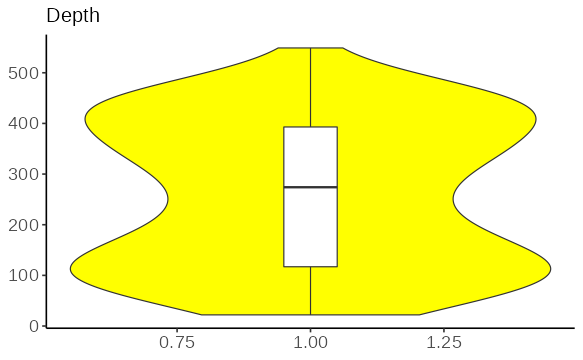
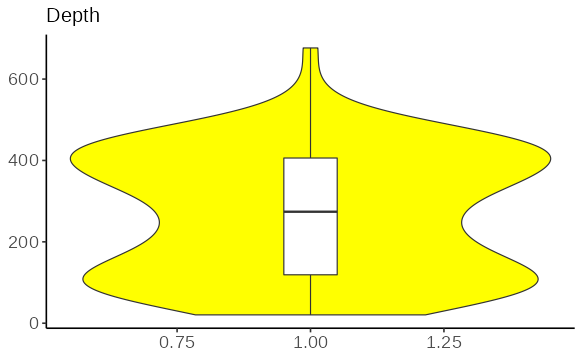
Built site for voluModel: 0.1.6@61150af

diff --git a/articles/c_DataSampling.html b/articles/c_DataSampling.html
@@ -101,7 +101,7 @@
                         <h4 data-toc-skip class="author">Hannah L. Owens</h4>
                         <h4 data-toc-skip class="author">Carsten Rahbek</h4>
             
-            <h4 data-toc-skip class="date">2022-06-24</h4>
+            <h4 data-toc-skip class="date">2022-06-27</h4>
       
       <small class="dont-index">Source: <a href="https://github.com/hannahlowens/voluModel/blob/HEAD/vignettes/c_DataSampling.Rmd" class="external-link"><code>vignettes/c_DataSampling.Rmd</code></a></small>
       <div class="hidden name"><code>c_DataSampling.Rmd</code></div>
@@ -121,7 +121,8 @@
 <span class="kw"><a href="https://rdrr.io/r/base/library.html" class="external-link">library</a></span><span class="op">(</span><span class="va"><a href="http://rgdal.r-forge.r-project.org" class="external-link">rgdal</a></span>, 
         <span class="fu"><a href="https://rdrr.io/r/base/options.html" class="external-link">options</a></span><span class="op">(</span><span class="st">"rgdal_show_exportToProj4_warnings"</span><span class="op">=</span><span class="st">"none"</span><span class="op">)</span><span class="op">)</span> <span class="co"># For vector stuff. Will eventually be replaced with sf.</span>
 <span class="kw"><a href="https://rdrr.io/r/base/library.html" class="external-link">library</a></span><span class="op">(</span><span class="va"><a href="https://rspatial.org/raster" class="external-link">raster</a></span><span class="op">)</span> <span class="co"># For raster stuff. Will eventually be replaced with terra.</span>
-<span class="kw"><a href="https://rdrr.io/r/base/library.html" class="external-link">library</a></span><span class="op">(</span><span class="va"><a href="https://github.com/ptitle/rangeBuilder" class="external-link">rangeBuilder</a></span><span class="op">)</span> <span class="co"># To compare marineBackground to getDynamicAlphaHull</span></code></pre></div>
+<span class="kw"><a href="https://rdrr.io/r/base/library.html" class="external-link">library</a></span><span class="op">(</span><span class="va"><a href="https://github.com/ptitle/rangeBuilder" class="external-link">rangeBuilder</a></span><span class="op">)</span> <span class="co"># To compare marineBackground to getDynamicAlphaHull</span>
+<span class="kw"><a href="https://rdrr.io/r/base/library.html" class="external-link">library</a></span><span class="op">(</span><span class="va"><a href="https://dplyr.tidyverse.org" class="external-link">dplyr</a></span><span class="op">)</span> <span class="co"># To filter data</span></code></pre></div>
 </div>
 <div class="section level2">
 <h2 id="generating-repeatable-training-regions">Generating Repeatable Training Regions<a class="anchor" aria-label="anchor" href="#generating-repeatable-training-regions"></a>
@@ -129,7 +130,15 @@
 <p>To generate a sample of pseudoabsences and/or background points, it is important to consider the environments the species of interest can access (Barve <em>et al.</em>, 2011). There is ample discussion in the literature on how to best delimit a niche model training region (also variously called M or the background region), and we will not review the issue here. In the absence of specific information on species’ dispersal capabilities, algorithmically generating a repeatable sampling background from a clear set of rules may be suitable approximation, or a jumping-off point for hand-curating training regions in a GIS software of choice.</p>
 <p>We designed <code><a href="../reference/marineBackground.html">marineBackground()</a></code> as a wrapper around , a function provided by the <code>rangeBuilder</code> package (Davis-Rabosky <em>et al.</em>, 2016) which generates background sampling regions by fitting an alpha hull polygon around an occurrence point dataset. Let’s look at how <code><a href="../reference/marineBackground.html">marineBackground()</a></code> (and by extension <code><a href="https://rdrr.io/pkg/rangeBuilder/man/getDynamicAlphaHull.html" class="external-link">getDynamicAlphaHull()</a></code>) fits alpha hull polygons, based on species occurrence data. The occurrence dataset is our <em>Steindachneria argentea</em>, Luminous Hake, data downloaded via R (R Core Team, 2020) from GBIF (Chamberlain <em>et al.</em>, 2021; Chamberlain and Boettiger, 2017) and OBIS (Provoost and Bosch, 2019) via <code>occCite</code> (Owens <em>et al.</em>, 2021).</p>
 <div class="sourceCode" id="cb2"><pre class="downlit sourceCode r">
-<code class="sourceCode R"><span class="co"># Map occurrences</span>
+<code class="sourceCode R"><span class="co"># Get points</span>
+<span class="va">occs</span> <span class="op">&lt;-</span> <span class="fu"><a href="https://rdrr.io/r/utils/read.table.html" class="external-link">read.csv</a></span><span class="op">(</span><span class="fu"><a href="https://rdrr.io/r/base/system.file.html" class="external-link">system.file</a></span><span class="op">(</span><span class="st">"extdata/Steindachneria_argentea.csv"</span>, 
+                             package<span class="op">=</span><span class="st">'voluModel'</span><span class="op">)</span><span class="op">)</span>
+<span class="va">occurrences</span> <span class="op">&lt;-</span> <span class="va">occs</span> <span class="op"><a href="https://magrittr.tidyverse.org/reference/pipe.html" class="external-link">%&gt;%</a></span> 
+  <span class="fu">dplyr</span><span class="fu">::</span><span class="fu"><a href="https://dplyr.tidyverse.org/reference/select.html" class="external-link">select</a></span><span class="op">(</span><span class="va">decimalLongitude</span>, <span class="va">decimalLatitude</span>, <span class="va">depth</span><span class="op">)</span> <span class="op"><a href="https://magrittr.tidyverse.org/reference/pipe.html" class="external-link">%&gt;%</a></span>
+  <span class="fu">dplyr</span><span class="fu">::</span><span class="fu"><a href="https://dplyr.tidyverse.org/reference/distinct.html" class="external-link">distinct</a></span><span class="op">(</span><span class="op">)</span> <span class="op"><a href="https://magrittr.tidyverse.org/reference/pipe.html" class="external-link">%&gt;%</a></span> 
+  <span class="fu">dplyr</span><span class="fu">::</span><span class="fu"><a href="https://dplyr.tidyverse.org/reference/filter.html" class="external-link">filter</a></span><span class="op">(</span><span class="fu">dplyr</span><span class="fu">::</span><span class="fu"><a href="https://dplyr.tidyverse.org/reference/between.html" class="external-link">between</a></span><span class="op">(</span><span class="va">depth</span>, <span class="fl">1</span>, <span class="fl">2000</span><span class="op">)</span><span class="op">)</span>
+
+<span class="co"># Map occurrences</span>
 <span class="va">land</span> <span class="op">&lt;-</span> <span class="fu">rnaturalearth</span><span class="fu">::</span><span class="fu"><a href="https://rdrr.io/pkg/rnaturalearth/man/ne_countries.html" class="external-link">ne_countries</a></span><span class="op">(</span>scale <span class="op">=</span> <span class="st">"small"</span>, returnclass <span class="op">=</span> <span class="st">"sf"</span><span class="op">)</span><span class="op">[</span><span class="fl">1</span><span class="op">]</span>
 <span class="fu"><a href="../reference/pointMap.html">pointMap</a></span><span class="op">(</span>occs <span class="op">=</span> <span class="va">occurrences</span>, ptCol <span class="op">=</span> <span class="st">"orange"</span>, landCol <span class="op">=</span> <span class="st">"black"</span>,
              spName <span class="op">=</span> <span class="st">"Steindachneria argentea"</span>, ptSize <span class="op">=</span> <span class="fl">3</span>,
@@ -199,7 +208,7 @@
 <span class="va">temperature</span> <span class="op">&lt;-</span> <span class="fu"><a href="http://rgdal.r-forge.r-project.org/reference/readOGR.html" class="external-link">readOGR</a></span><span class="op">(</span>dsn <span class="op">=</span> <span class="fu"><a href="https://rdrr.io/r/base/paste.html" class="external-link">paste0</a></span><span class="op">(</span><span class="va">td</span>, <span class="st">"/temperature"</span><span class="op">)</span>, 
                        layer <span class="op">=</span><span class="st">"woa18_decav_t00mn01_cropped"</span><span class="op">)</span></code></pre></div>
 <pre><code><span class="co">## OGR data source with driver: ESRI Shapefile </span>
-<span class="co">## Source: "/tmp/RtmpggiMmP/temperature", layer: "woa18_decav_t00mn01_cropped"</span>
+<span class="co">## Source: "/tmp/Rtmpj8Wiod/temperature", layer: "woa18_decav_t00mn01_cropped"</span>
 <span class="co">## with 1633 features</span>
 <span class="co">## It has 102 fields</span></code></pre>
 <div class="sourceCode" id="cb8"><pre class="downlit sourceCode r">
@@ -310,13 +319,7 @@
 <code class="sourceCode R"><span class="fu"><a href="https://rdrr.io/r/base/rm.html" class="external-link">rm</a></span><span class="op">(</span><span class="va">occsTest</span><span class="op">)</span></code></pre></div>
 <p>One optional step in a niche modeling workflow is to down-sample occurrence data to the same resolution as the environmental data. We do this to avoid over-fitting the model due to biased sampling. The next chunk of code downsamples occurrence points so that there is only one per voxel (i.e. 3D pixel) of environmental data. It does this by looping through each layer of the <code>RasterBrick</code>, selecting the occurrence points with depths closest to the depths represented by that layer in the raster brick. I then downsample these points using <code>voluModel</code>’s <code><a href="../reference/downsample.html">downsample()</a></code> function.</p>
 <div class="sourceCode" id="cb18"><pre class="downlit sourceCode r">
-<code class="sourceCode R"><span class="va">occurrences</span> <span class="op">&lt;-</span> <span class="va">occsClean</span><span class="op">[</span>,<span class="fu"><a href="https://rdrr.io/r/base/c.html" class="external-link">c</a></span><span class="op">(</span><span class="st">"decimalLatitude"</span>, <span class="st">"decimalLongitude"</span>, <span class="st">"depth"</span><span class="op">)</span><span class="op">]</span> 
-
-<span class="co"># Preliminary cleaning</span>
-<span class="va">occurrences</span> <span class="op">&lt;-</span> <span class="fu">dplyr</span><span class="fu">::</span><span class="fu"><a href="https://dplyr.tidyverse.org/reference/distinct.html" class="external-link">distinct</a></span><span class="op">(</span><span class="va">occurrences</span><span class="op">)</span>
-<span class="va">occurrences</span> <span class="op">&lt;-</span> <span class="va">occurrences</span><span class="op">[</span><span class="fu"><a href="https://rdrr.io/r/stats/complete.cases.html" class="external-link">complete.cases</a></span><span class="op">(</span><span class="va">occurrences</span><span class="op">)</span>,<span class="op">]</span>
-
-<span class="co"># Gets the layer index for each occurrence by matching to depth</span>
+<code class="sourceCode R"><span class="co"># Gets the layer index for each occurrence by matching to depth</span>
 <span class="va">layerNames</span> <span class="op">&lt;-</span> <span class="fu"><a href="https://rdrr.io/r/base/numeric.html" class="external-link">as.numeric</a></span><span class="op">(</span><span class="fu"><a href="https://rdrr.io/r/base/grep.html" class="external-link">gsub</a></span><span class="op">(</span><span class="st">"[X]"</span>, <span class="st">""</span>, <span class="fu"><a href="https://rdrr.io/pkg/raster/man/names.html" class="external-link">names</a></span><span class="op">(</span><span class="va">temperature</span><span class="op">)</span><span class="op">)</span><span class="op">)</span>
 <span class="va">occurrences</span><span class="op">$</span><span class="va">index</span> <span class="op">&lt;-</span> <span class="fu"><a href="https://rdrr.io/r/base/unlist.html" class="external-link">unlist</a></span><span class="op">(</span><span class="fu"><a href="https://rdrr.io/r/base/lapply.html" class="external-link">lapply</a></span><span class="op">(</span><span class="va">occurrences</span><span class="op">$</span><span class="va">depth</span>, FUN <span class="op">=</span> <span class="kw">function</span><span class="op">(</span><span class="va">x</span><span class="op">)</span> <span class="fu"><a href="https://rdrr.io/pkg/raster/man/which.minmax.html" class="external-link">which.min</a></span><span class="op">(</span><span class="fu"><a href="https://rdrr.io/r/base/MathFun.html" class="external-link">abs</a></span><span class="op">(</span><span class="va">layerNames</span> <span class="op">-</span> <span class="va">x</span><span class="op">)</span><span class="op">)</span><span class="op">)</span><span class="op">)</span>
 <span class="va">indices</span> <span class="op">&lt;-</span> <span class="fu"><a href="https://rdrr.io/pkg/raster/man/unique.html" class="external-link">unique</a></span><span class="op">(</span><span class="va">occurrences</span><span class="op">$</span><span class="va">index</span><span class="op">)</span>

diff --git a/articles/e_GLMWorkflow.html b/articles/e_GLMWorkflow.html
@@ -101,7 +101,7 @@
                         <h4 data-toc-skip class="author">Hannah L. Owens</h4>
                         <h4 data-toc-skip class="author">Carsten Rahbek</h4>
             
-            <h4 data-toc-skip class="date">2022-06-24</h4>
+            <h4 data-toc-skip class="date">2022-06-27</h4>
       
       <small class="dont-index">Source: <a href="https://github.com/hannahlowens/voluModel/blob/HEAD/vignettes/e_GLMWorkflow.Rmd" class="external-link"><code>vignettes/e_GLMWorkflow.Rmd</code></a></small>
       <div class="hidden name"><code>e_GLMWorkflow.Rmd</code></div>
@@ -180,16 +180,18 @@
 <span class="co">## [1] 2067.5</span></code></pre>
 <p>Based on this information and what we know about the biology of Luminous Hakes and how these occurrence data are collected, I am going to remove occurrences that have a depth of 0, as well as the extreme depth outlier, since these look like either collections of individuals that were not <em>in situ</em> or errors of some kind.</p>
 <div class="sourceCode" id="cb16"><pre class="downlit sourceCode r">
-<code class="sourceCode R"><span class="va">occsClean</span> <span class="op">&lt;-</span> <span class="va">occs</span> <span class="op"><a href="https://magrittr.tidyverse.org/reference/pipe.html" class="external-link">%&gt;%</a></span> <span class="fu">dplyr</span><span class="fu">::</span><span class="fu"><a href="https://dplyr.tidyverse.org/reference/select.html" class="external-link">select</a></span><span class="op">(</span><span class="va">decimalLongitude</span>, <span class="va">decimalLatitude</span>, <span class="va">depth</span><span class="op">)</span> <span class="op"><a href="https://magrittr.tidyverse.org/reference/pipe.html" class="external-link">%&gt;%</a></span>
-  <span class="fu"><a href="https://dplyr.tidyverse.org/reference/distinct.html" class="external-link">distinct</a></span><span class="op">(</span><span class="op">)</span> <span class="op"><a href="https://magrittr.tidyverse.org/reference/pipe.html" class="external-link">%&gt;%</a></span> <span class="fu"><a href="https://dplyr.tidyverse.org/reference/filter.html" class="external-link">filter</a></span><span class="op">(</span><span class="va">depth</span> <span class="op"><a href="https://rdrr.io/pkg/raster/man/match.html" class="external-link">%in%</a></span> <span class="fl">1</span><span class="op">:</span><span class="fl">2000</span><span class="op">)</span>
+<code class="sourceCode R"><span class="va">occsClean</span> <span class="op">&lt;-</span> <span class="va">occs</span> <span class="op"><a href="https://magrittr.tidyverse.org/reference/pipe.html" class="external-link">%&gt;%</a></span> 
+  <span class="fu">dplyr</span><span class="fu">::</span><span class="fu"><a href="https://dplyr.tidyverse.org/reference/select.html" class="external-link">select</a></span><span class="op">(</span><span class="va">decimalLongitude</span>, <span class="va">decimalLatitude</span>, <span class="va">depth</span><span class="op">)</span> <span class="op"><a href="https://magrittr.tidyverse.org/reference/pipe.html" class="external-link">%&gt;%</a></span>
+  <span class="fu">dplyr</span><span class="fu">::</span><span class="fu"><a href="https://dplyr.tidyverse.org/reference/distinct.html" class="external-link">distinct</a></span><span class="op">(</span><span class="op">)</span> <span class="op"><a href="https://magrittr.tidyverse.org/reference/pipe.html" class="external-link">%&gt;%</a></span> 
+  <span class="fu"><a href="https://dplyr.tidyverse.org/reference/filter.html" class="external-link">filter</a></span><span class="op">(</span><span class="fu">dplyr</span><span class="fu">::</span><span class="fu"><a href="https://dplyr.tidyverse.org/reference/between.html" class="external-link">between</a></span><span class="op">(</span><span class="va">depth</span>, <span class="fl">1</span>, <span class="fl">2000</span><span class="op">)</span><span class="op">)</span>
 <span class="fu"><a href="https://rdrr.io/pkg/raster/man/headtail.html" class="external-link">head</a></span><span class="op">(</span><span class="va">occsClean</span><span class="op">)</span></code></pre></div>
-<pre><code><span class="co">##   decimalLongitude decimalLatitude depth</span>
-<span class="co">## 1        -54.08333        7.666667   450</span>
-<span class="co">## 2        -54.08333        7.666667   450</span>
-<span class="co">## 3        -80.43333        9.300000    82</span>
-<span class="co">## 4        -59.78330        9.683300   274</span>
-<span class="co">## 5        -59.78333        9.683333   274</span>
-<span class="co">## 6        -59.75000        9.750000   366</span></code></pre>
+<pre><code><span class="co">##   decimalLongitude decimalLatitude  depth</span>
+<span class="co">## 1        -54.90000        7.450000 260.50</span>
+<span class="co">## 2        -54.08333        7.666667 450.00</span>
+<span class="co">## 3        -54.08333        7.666667 450.00</span>
+<span class="co">## 4        -56.87500        7.741667 365.76</span>
+<span class="co">## 5        -80.43333        9.300000  82.00</span>
+<span class="co">## 6        -59.78330        9.683300 274.00</span></code></pre>
 <div class="sourceCode" id="cb18"><pre class="downlit sourceCode r">
 <code class="sourceCode R"><span class="fu"><a href="https://ggplot2.tidyverse.org/reference/ggplot.html" class="external-link">ggplot</a></span><span class="op">(</span><span class="va">occsClean</span>, <span class="fu"><a href="https://ggplot2.tidyverse.org/reference/aes.html" class="external-link">aes</a></span><span class="op">(</span>x <span class="op">=</span> <span class="fl">1</span>, y<span class="op">=</span><span class="va">depth</span><span class="op">)</span><span class="op">)</span> <span class="op">+</span>
   <span class="fu"><a href="https://ggplot2.tidyverse.org/reference/geom_violin.html" class="external-link">geom_violin</a></span><span class="op">(</span>fill<span class="op">=</span><span class="st">"yellow"</span>, <span class="op">)</span> <span class="op">+</span>
@@ -209,7 +211,7 @@
 <span class="va">temperature</span> <span class="op">&lt;-</span> <span class="fu"><a href="http://rgdal.r-forge.r-project.org/reference/readOGR.html" class="external-link">readOGR</a></span><span class="op">(</span>dsn <span class="op">=</span> <span class="fu"><a href="https://rdrr.io/r/base/paste.html" class="external-link">paste0</a></span><span class="op">(</span><span class="va">td</span>, <span class="st">"/temperature"</span><span class="op">)</span>, 
                        layer <span class="op">=</span><span class="st">"woa18_decav_t00mn01_cropped"</span><span class="op">)</span></code></pre></div>
 <pre><code><span class="co">## OGR data source with driver: ESRI Shapefile </span>
-<span class="co">## Source: "/tmp/RtmpSrq01x/temperature", layer: "woa18_decav_t00mn01_cropped"</span>
+<span class="co">## Source: "/tmp/RtmphTDYvr/temperature", layer: "woa18_decav_t00mn01_cropped"</span>
 <span class="co">## with 1633 features</span>
 <span class="co">## It has 102 fields</span></code></pre>
 <div class="sourceCode" id="cb21"><pre class="downlit sourceCode r">
@@ -255,7 +257,7 @@
 <span class="va">occsClean</span> <span class="op">&lt;-</span> <span class="va">downsampledOccs</span>
 
 <span class="fu"><a href="https://www.math.uzh.ch/pages/spam/reference/print.html" class="external-link">print</a></span><span class="op">(</span><span class="fu"><a href="https://rdrr.io/r/base/paste.html" class="external-link">paste0</a></span><span class="op">(</span><span class="st">"Original number of points: "</span>, <span class="fu"><a href="https://rdrr.io/pkg/raster/man/ncell.html" class="external-link">nrow</a></span><span class="op">(</span><span class="va">occs</span><span class="op">)</span>, <span class="st">"; number of downsampled occs: "</span>, <span class="fu"><a href="https://rdrr.io/pkg/raster/man/ncell.html" class="external-link">nrow</a></span><span class="op">(</span><span class="va">occsClean</span><span class="op">)</span><span class="op">)</span><span class="op">)</span></code></pre></div>
-<pre><code><span class="co">## [1] "Original number of points: 301; number of downsampled occs: 71"</span></code></pre>
+<pre><code><span class="co">## [1] "Original number of points: 301; number of downsampled occs: 82"</span></code></pre>
 <div class="sourceCode" id="cb25"><pre class="downlit sourceCode r">
 <code class="sourceCode R"><span class="va">land</span> <span class="op">&lt;-</span> <span class="fu">rnaturalearth</span><span class="fu">::</span><span class="fu"><a href="https://rdrr.io/pkg/rnaturalearth/man/ne_countries.html" class="external-link">ne_countries</a></span><span class="op">(</span>scale <span class="op">=</span> <span class="st">"small"</span>, returnclass <span class="op">=</span> <span class="st">"sf"</span><span class="op">)</span><span class="op">[</span><span class="fl">1</span><span class="op">]</span>
 <span class="fu"><a href="../reference/pointCompMap.html">pointCompMap</a></span><span class="op">(</span>occs1 <span class="op">=</span> <span class="va">occs</span>, occs2 <span class="op">=</span> <span class="va">occsClean</span>, 
@@ -353,24 +355,24 @@
 <span class="co">## </span>
 <span class="co">## Deviance Residuals: </span>
 <span class="co">##     Min       1Q   Median       3Q      Max  </span>
-<span class="co">## -0.8818  -0.1454  -0.0707  -0.0471   3.6524  </span>
+<span class="co">## -0.6081  -0.1576  -0.0833  -0.0576   3.6328  </span>
 <span class="co">## </span>
 <span class="co">## Coefficients:</span>
 <span class="co">##                   Estimate Std. Error z value Pr(&gt;|z|)    </span>
-<span class="co">## (Intercept)     -1.9227686  1.3300667  -1.446 0.148284    </span>
-<span class="co">## Temperature     -0.1837274  0.0654799  -2.806 0.005018 ** </span>
-<span class="co">## AOU             -0.0392597  0.0111646  -3.516 0.000437 ***</span>
-<span class="co">## Temperature:AOU  0.0039388  0.0007944   4.958 7.11e-07 ***</span>
+<span class="co">## (Intercept)     -2.4454963  1.4018833  -1.744  0.08108 .  </span>
+<span class="co">## Temperature     -0.1487718  0.0654275  -2.274  0.02298 *  </span>
+<span class="co">## AOU             -0.0297020  0.0103038  -2.883  0.00394 ** </span>
+<span class="co">## Temperature:AOU  0.0031129  0.0006895   4.515 6.33e-06 ***</span>
 <span class="co">## ---</span>
 <span class="co">## Signif. codes:  0 '***' 0.001 '**' 0.01 '*' 0.05 '.' 0.1 ' ' 1</span>
 <span class="co">## </span>
 <span class="co">## (Dispersion parameter for binomial family taken to be 1)</span>
 <span class="co">## </span>
-<span class="co">##     Null deviance: 258.07  on 2322  degrees of freedom</span>
-<span class="co">## Residual deviance: 216.94  on 2319  degrees of freedom</span>
-<span class="co">## AIC: 224.94</span>
+<span class="co">##     Null deviance: 291.73  on 2625  degrees of freedom</span>
+<span class="co">## Residual deviance: 256.26  on 2622  degrees of freedom</span>
+<span class="co">## AIC: 264.26</span>
 <span class="co">## </span>
-<span class="co">## Number of Fisher Scoring iterations: 9</span></code></pre>
+<span class="co">## Number of Fisher Scoring iterations: 8</span></code></pre>
 <p>Now we project the model back into geographic space; at this stage, the niche model is being used to model the geographic distribution of putatively suitable habit for Luminous Hake (an ENM becomes an SDM).</p>
 <div class="sourceCode" id="cb43"><pre class="downlit sourceCode r">
 <code class="sourceCode R"><span class="va">layerNames</span> <span class="op">&lt;-</span> <span class="fu"><a href="https://rdrr.io/r/base/numeric.html" class="external-link">as.numeric</a></span><span class="op">(</span><span class="fu"><a href="https://rdrr.io/r/base/grep.html" class="external-link">gsub</a></span><span class="op">(</span><span class="st">"[X]"</span>, <span class="st">""</span>, <span class="fu"><a href="https://rdrr.io/pkg/raster/man/names.html" class="external-link">names</a></span><span class="op">(</span><span class="va">temperature</span><span class="op">)</span><span class="op">)</span><span class="op">)</span>

diff --git a/articles/b_RasterProcessing.html b/articles/b_RasterProcessing.html
@@ -101,7 +101,7 @@
                         <h4 data-toc-skip class="author">Hannah L. Owens</h4>
                         <h4 data-toc-skip class="author">Carsten Rahbek</h4>
             
-            <h4 data-toc-skip class="date">2022-06-24</h4>
+            <h4 data-toc-skip class="date">2022-06-27</h4>
       
       <small class="dont-index">Source: <a href="https://github.com/hannahlowens/voluModel/blob/HEAD/vignettes/b_RasterProcessing.Rmd" class="external-link"><code>vignettes/b_RasterProcessing.Rmd</code></a></small>
       <div class="hidden name"><code>b_RasterProcessing.Rmd</code></div>
@@ -135,7 +135,7 @@
 <span class="va">temperature</span> <span class="op">&lt;-</span> <span class="fu"><a href="http://rgdal.r-forge.r-project.org/reference/readOGR.html" class="external-link">readOGR</a></span><span class="op">(</span>dsn <span class="op">=</span> <span class="fu"><a href="https://rdrr.io/r/base/paste.html" class="external-link">paste0</a></span><span class="op">(</span><span class="va">td</span>, <span class="st">"/temperature"</span><span class="op">)</span>, 
                        layer <span class="op">=</span><span class="st">"woa18_decav_t00mn01_cropped"</span><span class="op">)</span></code></pre></div>
 <pre><code><span class="co">## OGR data source with driver: ESRI Shapefile </span>
-<span class="co">## Source: "/tmp/RtmpEofKZe/temperature", layer: "woa18_decav_t00mn01_cropped"</span>
+<span class="co">## Source: "/tmp/RtmpnIKQYD/temperature", layer: "woa18_decav_t00mn01_cropped"</span>
 <span class="co">## with 1633 features</span>
 <span class="co">## It has 102 fields</span></code></pre>
 <div class="sourceCode" id="cb4"><pre class="downlit sourceCode r">
@@ -274,7 +274,7 @@
 <span class="va">oxygen</span> <span class="op">&lt;-</span> <span class="fu"><a href="http://rgdal.r-forge.r-project.org/reference/readOGR.html" class="external-link">readOGR</a></span><span class="op">(</span>dsn <span class="op">=</span> <span class="fu"><a href="https://rdrr.io/r/base/paste.html" class="external-link">paste0</a></span><span class="op">(</span><span class="va">td</span>, <span class="st">"/oxygen"</span><span class="op">)</span>, 
                   layer <span class="op">=</span> <span class="st">"woa18_all_A00mn01_cropped"</span><span class="op">)</span></code></pre></div>
 <pre><code><span class="co">## OGR data source with driver: ESRI Shapefile </span>
-<span class="co">## Source: "/tmp/RtmpEofKZe/oxygen", layer: "woa18_all_A00mn01_cropped"</span>
+<span class="co">## Source: "/tmp/RtmpnIKQYD/oxygen", layer: "woa18_all_A00mn01_cropped"</span>
 <span class="co">## with 1490 features</span>
 <span class="co">## It has 102 fields</span></code></pre>
 <div class="sourceCode" id="cb10"><pre class="downlit sourceCode r">

diff --git a/articles/a_Introduction.html b/articles/a_Introduction.html
@@ -102,7 +102,7 @@
                         <h4 data-toc-skip class="author">Hannah L. Owens</h4>
                         <h4 data-toc-skip class="author">Carsten Rahbek</h4>
             
-            <h4 data-toc-skip class="date">2022-06-24</h4>
+            <h4 data-toc-skip class="date">2022-06-27</h4>
       
       <small class="dont-index">Source: <a href="https://github.com/hannahlowens/voluModel/blob/HEAD/vignettes/a_Introduction.Rmd" class="external-link"><code>vignettes/a_Introduction.Rmd</code></a></small>
       <div class="hidden name"><code>a_Introduction.Rmd</code></div>
@@ -118,6 +118,7 @@
 <p>Here are the packages you will need.</p>
 <div class="sourceCode" id="cb1"><pre class="downlit sourceCode r">
 <code class="sourceCode R"><span class="kw"><a href="https://rdrr.io/r/base/library.html" class="external-link">library</a></span><span class="op">(</span><span class="va"><a href="https://hannahlowens.github.io/voluModel/" class="external-link">voluModel</a></span><span class="op">)</span> <span class="co"># Because of course</span>
+<span class="kw"><a href="https://rdrr.io/r/base/library.html" class="external-link">library</a></span><span class="op">(</span><span class="va"><a href="https://dplyr.tidyverse.org" class="external-link">dplyr</a></span><span class="op">)</span> <span class="co"># To filter data</span>
 <span class="kw"><a href="https://rdrr.io/r/base/library.html" class="external-link">library</a></span><span class="op">(</span><span class="va"><a href="https://ggplot2.tidyverse.org" class="external-link">ggplot2</a></span><span class="op">)</span> <span class="co"># For fancy plotting</span>
 <span class="kw"><a href="https://rdrr.io/r/base/library.html" class="external-link">library</a></span><span class="op">(</span><span class="va"><a href="http://rgdal.r-forge.r-project.org" class="external-link">rgdal</a></span>, 
         <span class="fu"><a href="https://rdrr.io/r/base/options.html" class="external-link">options</a></span><span class="op">(</span><span class="st">"rgdal_show_exportToProj4_warnings"</span><span class="op">=</span><span class="st">"none"</span><span class="op">)</span><span class="op">)</span> <span class="co"># For vector stuff. Will eventually be replaced with sf.</span>

diff --git a/reference/mSampling3D.html b/reference/mSampling3D.html
@@ -158,15 +158,12 @@ which to sample.</p></li>
 <span class="r-in"><span class="fu"><a href="https://rdrr.io/pkg/raster/man/projection.html" class="external-link">crs</a></span><span class="op">(</span><span class="va">buffPts</span><span class="op">)</span> <span class="op">&lt;-</span> <span class="st">"+proj=longlat +ellps=WGS84 +datum=WGS84 +no_defs"</span></span>
 <span class="r-in"><span class="va">mShp</span> <span class="op">&lt;-</span> <span class="fu"><a href="https://rdrr.io/pkg/raster/man/buffer.html" class="external-link">buffer</a></span><span class="op">(</span><span class="va">buffPts</span>, width <span class="op">=</span> <span class="fl">1</span>, dissolve <span class="op">=</span> <span class="cn">TRUE</span><span class="op">)</span></span>
 <span class="r-in"></span>
-<span class="r-in"><span class="co"># Test function</span></span>
+<span class="r-in"><span class="co"># Here's the function</span></span>
 <span class="r-in"><span class="va">occSample3d</span> <span class="op">&lt;-</span> <span class="fu">mSampling3D</span><span class="op">(</span><span class="va">occurrences</span>,</span>
 <span class="r-in">                           <span class="va">envBrick</span>, mShp <span class="op">=</span> <span class="va">mShp</span>,</span>
 <span class="r-in">                           depthLimit <span class="op">=</span> <span class="st">"occs"</span><span class="op">)</span></span>
 <span class="r-msg co"><span class="r-pr">#&gt;</span> Using longitude, latitude, and depth</span>
 <span class="r-msg co"><span class="r-pr">#&gt;</span>  as x, y, and z coordinates, respectively.</span>
-<span class="r-in"><span class="fu"><a href="https://rdrr.io/pkg/raster/man/headtail.html" class="external-link">head</a></span><span class="op">(</span><span class="va">occSample3d</span><span class="op">)</span></span>
-<span class="r-out co"><span class="r-pr">#&gt;</span> [1] longitude latitude  depth    </span>
-<span class="r-out co"><span class="r-pr">#&gt;</span> &lt;0 rows&gt; (or 0-length row.names)</span>
 <span class="r-in"></span>
 </code></pre></div>
     </div>

diff --git a/reference/downsample.html b/reference/downsample.html
@@ -121,14 +121,6 @@ input data into this format.</p>
 <span class="r-in"><span class="va">result</span> <span class="op">&lt;-</span> <span class="fu">downsample</span><span class="op">(</span>occs <span class="op">=</span> <span class="va">occurrences</span>, rasterTemplate <span class="op">=</span> <span class="va">r</span><span class="op">)</span></span>
 <span class="r-msg co"><span class="r-pr">#&gt;</span> Using longitude and latitude</span>
 <span class="r-msg co"><span class="r-pr">#&gt;</span>  as x and y coordinates, respectively.</span>
-<span class="r-in"><span class="fu"><a href="https://rdrr.io/pkg/raster/man/headtail.html" class="external-link">head</a></span><span class="op">(</span><span class="va">result</span><span class="op">)</span></span>
-<span class="r-out co"><span class="r-pr">#&gt;</span>   longitude latitude</span>
-<span class="r-out co"><span class="r-pr">#&gt;</span> 1       126       45</span>
-<span class="r-out co"><span class="r-pr">#&gt;</span> 2       -18      -27</span>
-<span class="r-out co"><span class="r-pr">#&gt;</span> 3       -54       81</span>
-<span class="r-out co"><span class="r-pr">#&gt;</span> 4        90       63</span>
-<span class="r-out co"><span class="r-pr">#&gt;</span> 5        18      -45</span>
-<span class="r-out co"><span class="r-pr">#&gt;</span> 6       126      -81</span>
 <span class="r-in"></span>
 </code></pre></div>
     </div>

diff --git a/reference/xyzSample.html b/reference/xyzSample.html
@@ -152,16 +152,6 @@ environmental value at that 3D coordinate.</p>
 <span class="r-in"><span class="co"># How to use</span></span>
 <span class="r-in"><span class="va">occurrences</span><span class="op">$</span><span class="va">envtValue</span> <span class="op">&lt;-</span> <span class="va">occSample3d</span></span>
 <span class="r-in"></span>
-<span class="r-in"><span class="fu"><a href="https://rdrr.io/pkg/raster/man/headtail.html" class="external-link">head</a></span><span class="op">(</span><span class="va">occurrences</span><span class="op">)</span></span>
-<span class="r-out co"><span class="r-pr">#&gt;</span>   longitude latitude depth envtValue</span>
-<span class="r-out co"><span class="r-pr">#&gt;</span> 1       143       51    13        20</span>
-<span class="r-out co"><span class="r-pr">#&gt;</span> 2       -14      -23     3        65</span>
-<span class="r-out co"><span class="r-pr">#&gt;</span> 3       -52       76     0         4</span>
-<span class="r-out co"><span class="r-pr">#&gt;</span> 4       118       38    33         8</span>
-<span class="r-out co"><span class="r-pr">#&gt;</span> 5        89       71    22         8</span>
-<span class="r-out co"><span class="r-pr">#&gt;</span> 6         6      -48    13        60</span>
-<span class="r-in"></span>
-<span class="r-in"></span>
 </code></pre></div>
     </div>
   </div>

diff --git a/reference/mSampling2D.html b/reference/mSampling2D.html
@@ -140,9 +140,6 @@ appropriately sample from those background points.</p>
 <span class="r-in"><span class="va">result</span> <span class="op">&lt;-</span> <span class="fu">mSampling2D</span><span class="op">(</span>occs <span class="op">=</span> <span class="va">occurrences</span>, rasterTemplate <span class="op">=</span> <span class="va">r</span>, mShp <span class="op">=</span> <span class="va">mShp</span><span class="op">)</span></span>
 <span class="r-msg co"><span class="r-pr">#&gt;</span> Using longitude and latitude</span>
 <span class="r-msg co"><span class="r-pr">#&gt;</span>  as x and y coordinates, respectively.</span>
-<span class="r-in"><span class="fu"><a href="https://rdrr.io/pkg/raster/man/headtail.html" class="external-link">head</a></span><span class="op">(</span><span class="va">result</span><span class="op">)</span></span>
-<span class="r-out co"><span class="r-pr">#&gt;</span> [1] longitude latitude </span>
-<span class="r-out co"><span class="r-pr">#&gt;</span> &lt;0 rows&gt; (or 0-length row.names)</span>
 <span class="r-in"></span>
 </code></pre></div>
     </div>

diff --git a/articles/d_Visualization.html b/articles/d_Visualization.html
@@ -101,7 +101,7 @@
                         <h4 data-toc-skip class="author">Hannah L. Owens</h4>
                         <h4 data-toc-skip class="author">Carsten Rahbek</h4>
             
-            <h4 data-toc-skip class="date">2022-06-24</h4>
+            <h4 data-toc-skip class="date">2022-06-27</h4>
       
       <small class="dont-index">Source: <a href="https://github.com/hannahlowens/voluModel/blob/HEAD/vignettes/d_Visualization.Rmd" class="external-link"><code>vignettes/d_Visualization.Rmd</code></a></small>
       <div class="hidden name"><code>d_Visualization.Rmd</code></div>
